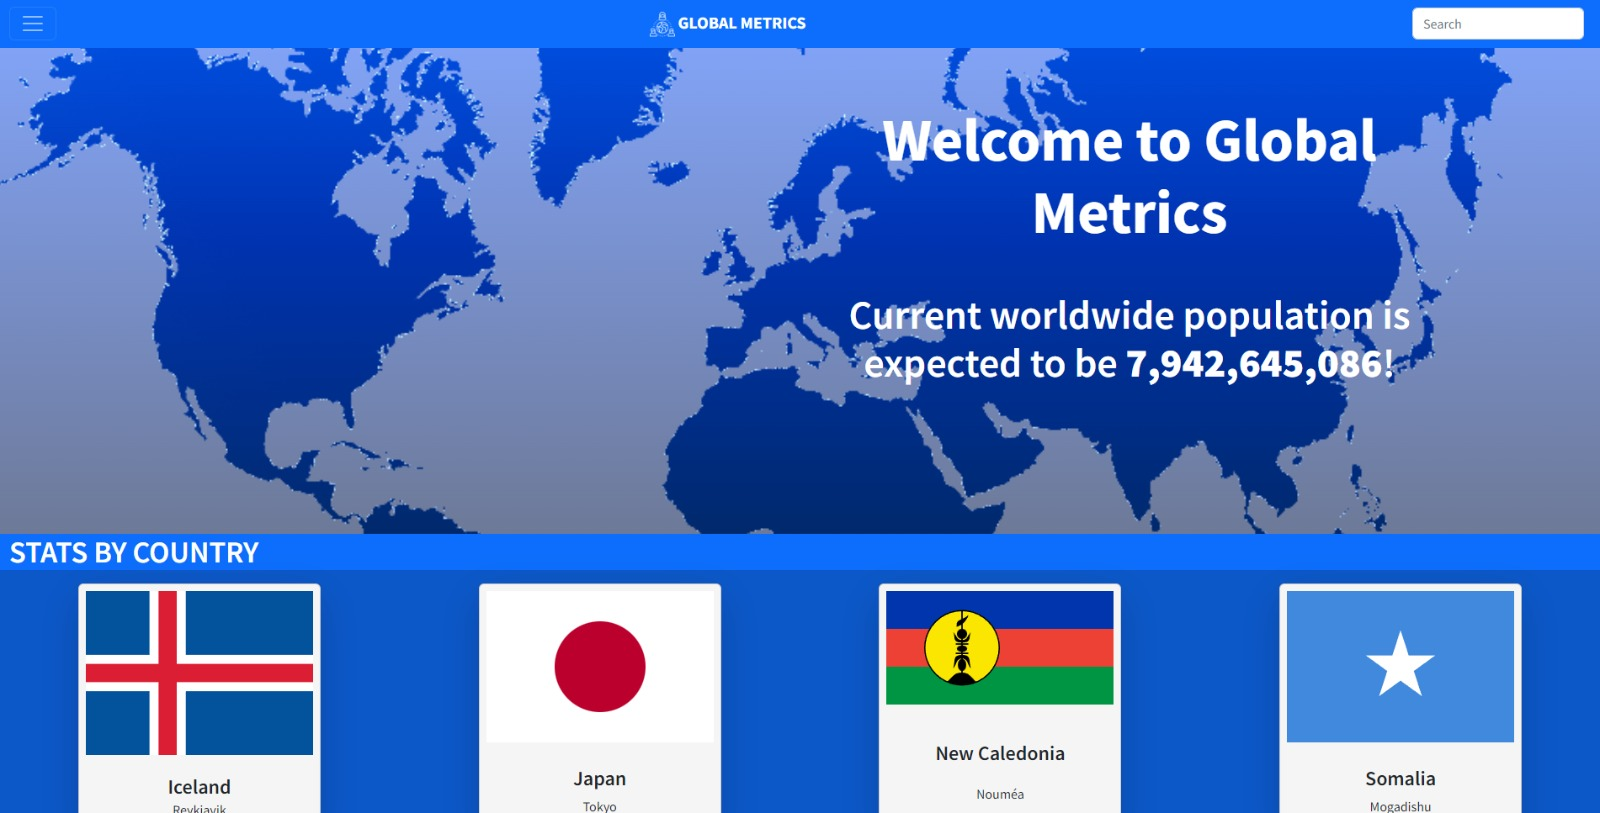
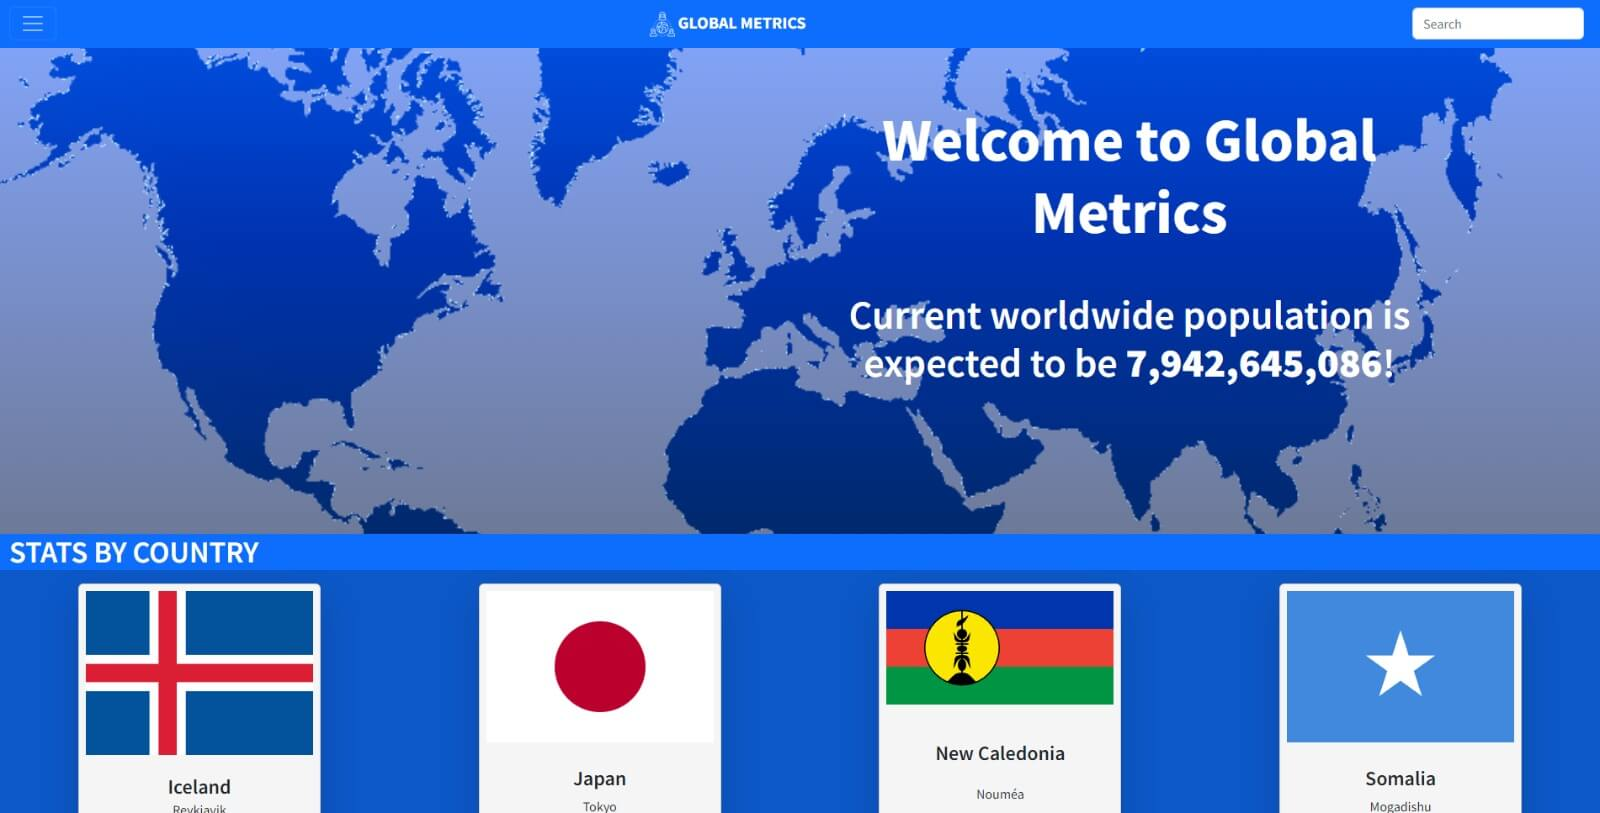
Optimized images and add new imports

diff --git a/src/assets/index.js b/src/assets/index.js
@@ -36,6 +36,9 @@ import budget from "./BudgetApp.png";
 import dawnbank from "./DawnBank.png";
 import mountains from "./LAMountains.png";
 import thinkart from "./ThinkArt.png";
+import covid from "./output.png";
+import vetclinic from "./schema.png";
+import hrdashboard from "./hr-dashboard.png";
 
 export {
   logo,
@@ -73,4 +76,7 @@ export {
   dawnbank,
   mountains,
   thinkart,
+  covid,
+  vetclinic,
+  hrdashboard,
 };
